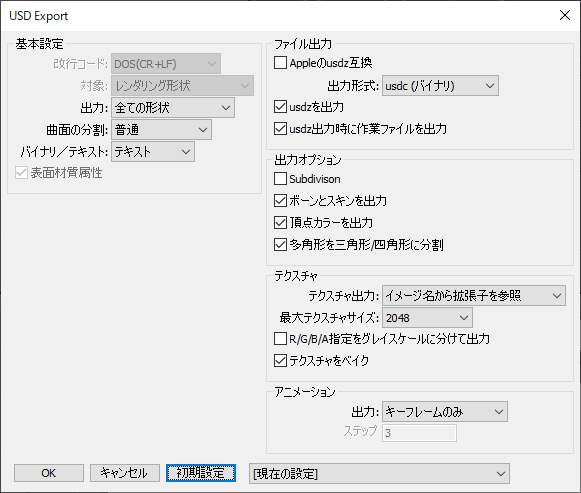
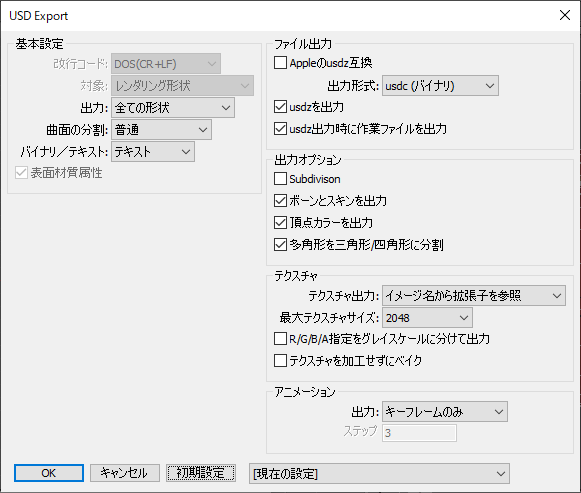
Update readme.

diff --git a/UpdateLog.md b/UpdateLog.md
@@ -1,0 +1,45 @@
+# 更新履歴
+
+[2021/02/14] ver.0.1.0.0   
+
+* Changed : USD 21.02の使用に移行
+* Changed : エクスポートオプションで「テクスチャを加工せずにベイク」を追加。「テクスチャをベイク」は廃止。
+* Changed : Occlusionマッピングの指定をglTFと共有 (同じレイヤを使用するようにした)
+* Added : 表面材質で「AlphaMode」の指定オプションを追加。USDの「opacityThreshold」の出力に対応。
+* Fixed : アニメーション出力でボールジョイント/ボーン使用時に正しくエクスポートできない場合があった問題を修正。
+* Fixed : テクスチャベイクの処理を全面的に見直し。
+* Fixed : Occlusionのチャンネル指定がレンダリングに反映できてなかった問題を修正
+* マスターサーフェス使用時のエクスポート速度を改善
+
+[2020/01/25] ver.0.0.2.0   
+
+* Added : マテリアルで、複数テクスチャのベイク対応
+* Added : マテリアルで、マッピングレイヤの「合成」に対応 (ベイク出力時)
+* Added : マテリアルで、マッピングレイヤの左右反転/上下反転/90度回転/色反転の対応 (ベイク出力時)
+* Added : マテリアルで、「不透明マスク」「マット」対応 (ベイク出力時)
+* Changed : マテリアルで、Unlit時のMetallic値を0.0に変更
+
+[2019/12/16] ver.0.0.1.4   
+
+* Fixed : 表面材質のマッピングでイメージを指定していて、テクスチャの割り当てがない場合にクラッシュする問題を修正
+* Fixed : フェイスグループを使用している場合に、正しく出力されない問題を修正
+
+[2019/11/03] ver.0.0.1.3   
+
+* Added : 「多角形を三角形/四角形に分割」エクスポートオプションを追加
+* Added : USDファイルに、"USD Exporter for Shade3D (version)"のテキストを出力 (バージョンによるチェック用)
+
+[2019/10/20] ver.0.0.1.2   
+
+* Fixed : ポリゴンメッシュのフェイスグループ使用時に「無し」を割り当てるとその面が消える問題を修正
+
+[2019/10/17] ver.0.0.1.1   
+
+* Fixed : ボールジョイントを使用したtransform animationで正しいモーションにならない/ボールジョイントを階層化できない問題を修正
+* Added : エクスポートオプション「usdz出力時に作業ファイルを出力」を追加
+* エクスポートオプション「Subdivision」の仕様見直し（まだ検証中）
+
+[2019/10/12] ver.0.0.1.0   
+
+* 初回版 (ベータ)
+
